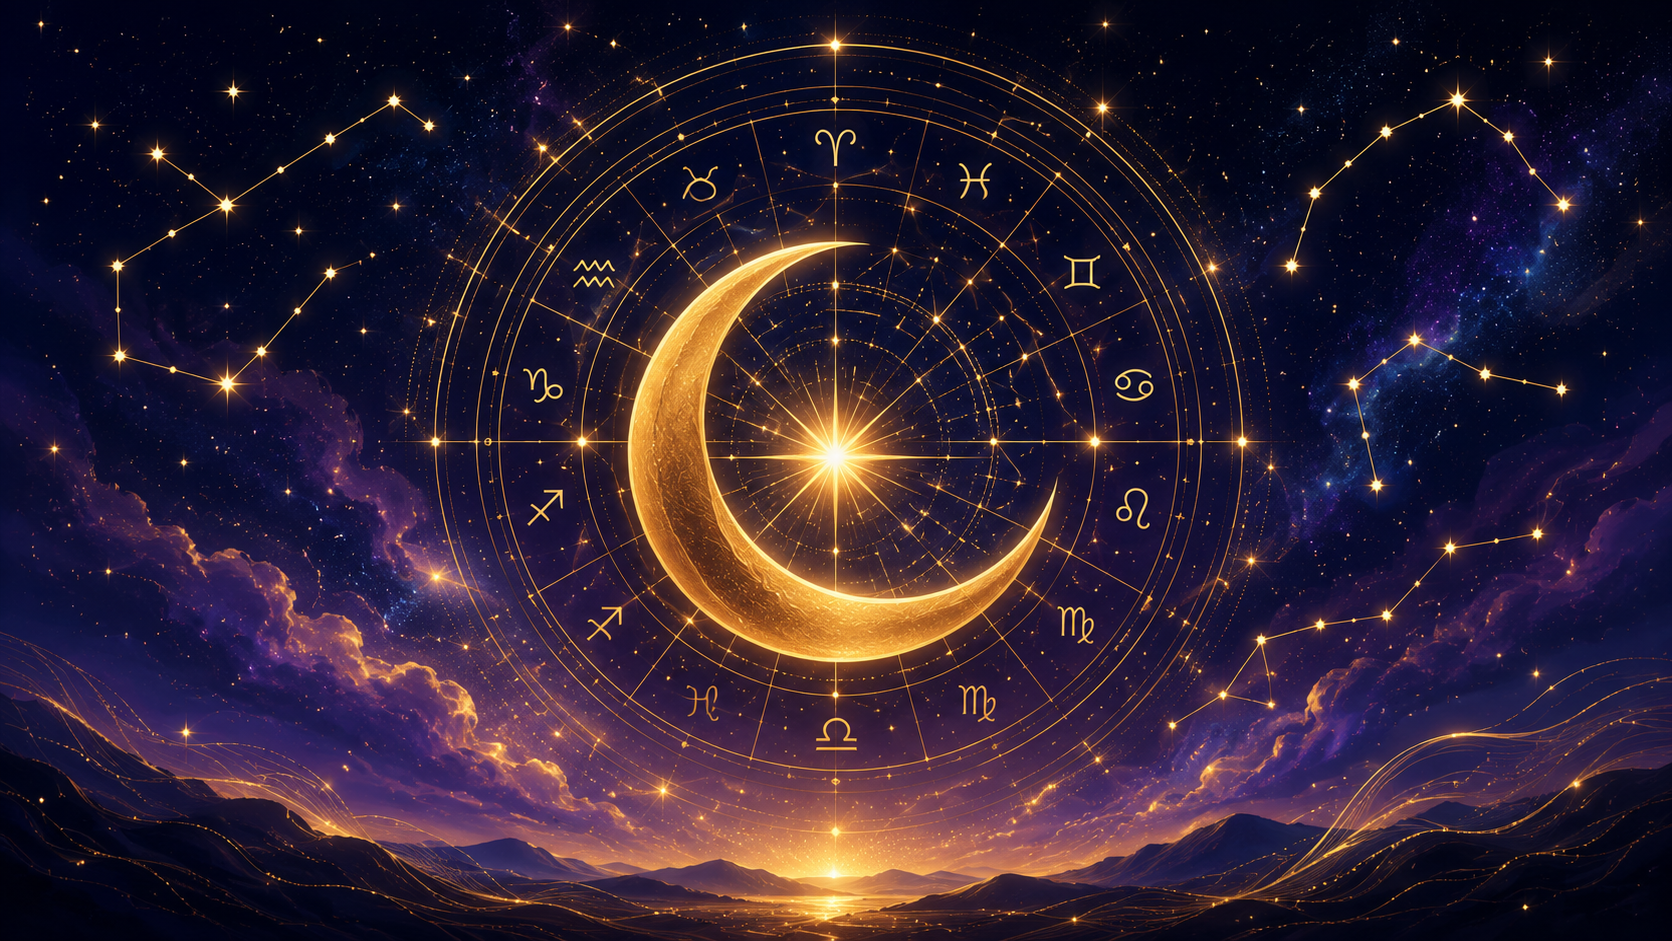
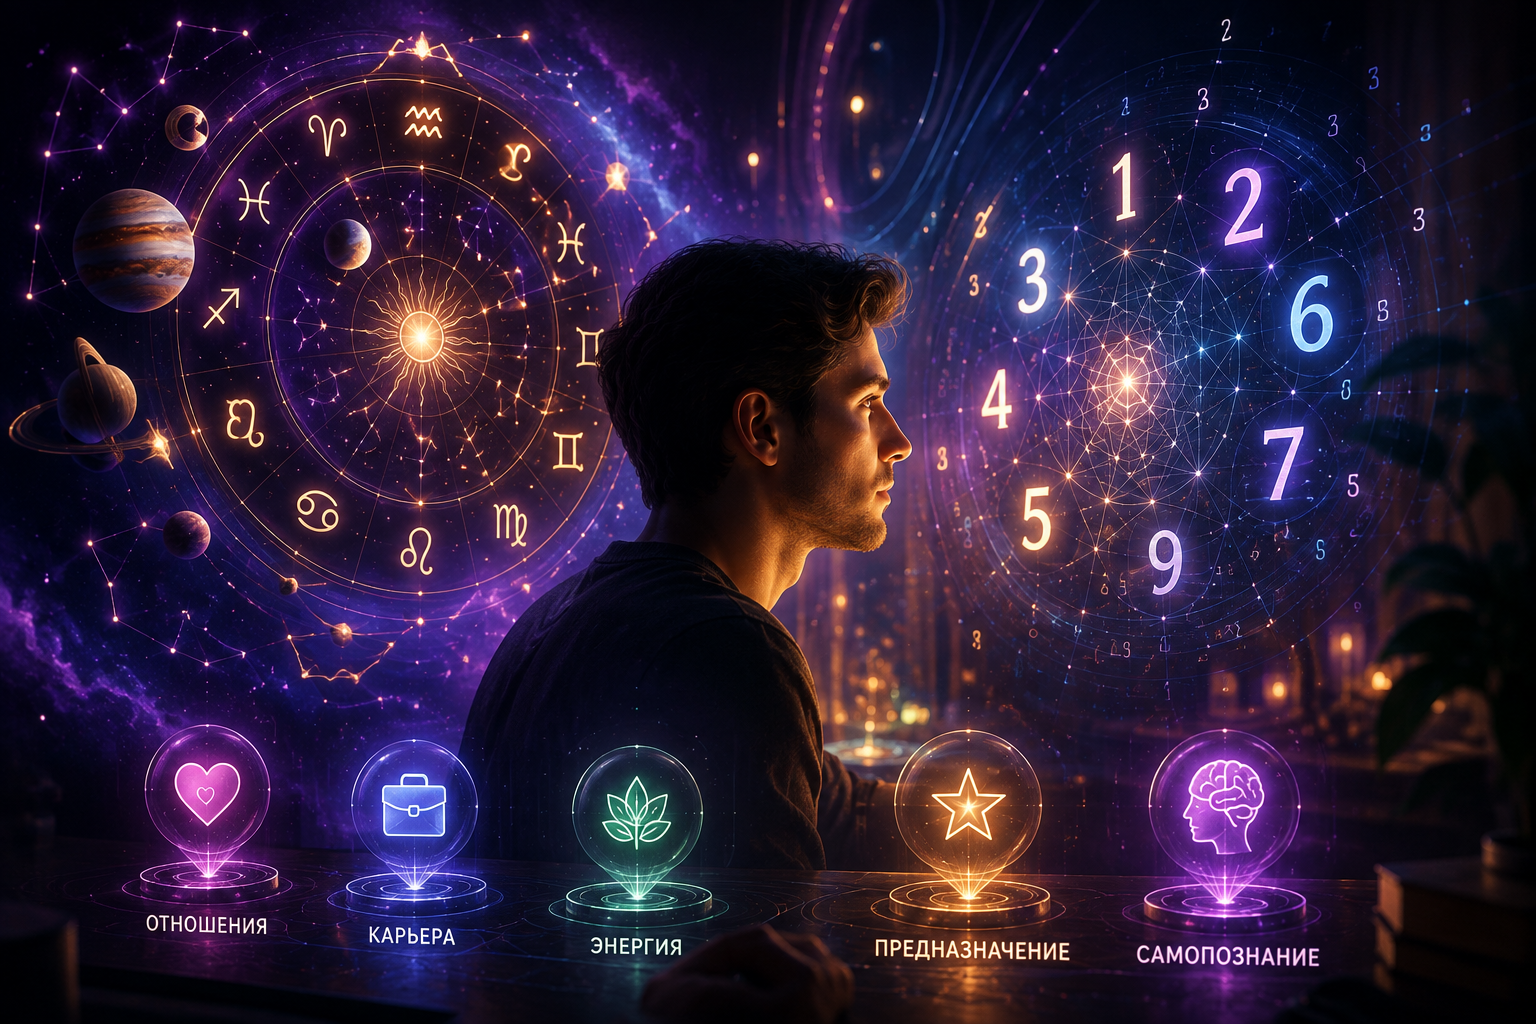
compat 12

diff --git a/main.py b/main.py
@@ -547,6 +547,7 @@ async def process_gender(message: Message, state: FSMContext):
     logger.info(f"📝 Шаг ПОЛ, is_edit={is_edit}, new_data до: {new_data}")
 
     if is_edit:
+        # Режим редактирования профиля — оставляем как было
         if gender in ["М", "Ж"]:
             new_data['gender'] = 'M' if gender == 'М' else 'F'
             logger.info(f"📝 Шаг ПОЛ, обновлён пол: {new_data['gender']}")
@@ -558,6 +559,7 @@ async def process_gender(message: Message, state: FSMContext):
         await message.answer(await get_text(user_id, 'choose_timezone'), reply_markup=get_timezone_keyboard(lang))
         return
 
+    # ----- Обычный режим (первое заполнение) -----
     if gender not in ["М", "Ж"]:
         await message.answer(await get_text(user_id, 'error_gender_only'), reply_markup=get_cancel_keyboard(lang))
         return
@@ -565,12 +567,24 @@ async def process_gender(message: Message, state: FSMContext):
     db_gender = 'M' if gender == 'М' else 'F'
     data = await state.get_data()
     data['gender'] = db_gender
+    # Устанавливаем часовой пояс по умолчанию (UTC+3)
+    data['timezone_offset'] = 3
     await state.update_data(temp_data=data)
 
-    await state.set_state(UserDataStates.WAITING_TIMEZONE)
+    # Формируем профиль для отображения
+    profile_text = format_profile_data(data, lang)
+    privacy_url = os.getenv('PRIVACY_POLICY_URL', 'ссылка на политику конфиденциальности')
+
+    save_text = await get_text(user_id, 'profile_save_confirm').format(
+        profile=profile_text,
+        privacy_url=privacy_url
+    )
+
+    await state.set_state(UserDataStates.ASKING_SAVE)
     await message.answer(
-        "🕒 Выберите ваш часовой пояс:\nЭто нужно для точного расчёта гороскопа и отправки прогнозов.",
-        reply_markup=get_timezone_keyboard(lang)
+        save_text,
+        reply_markup=get_save_data_keyboard(lang),
+        parse_mode="Markdown"
     )
 
 
